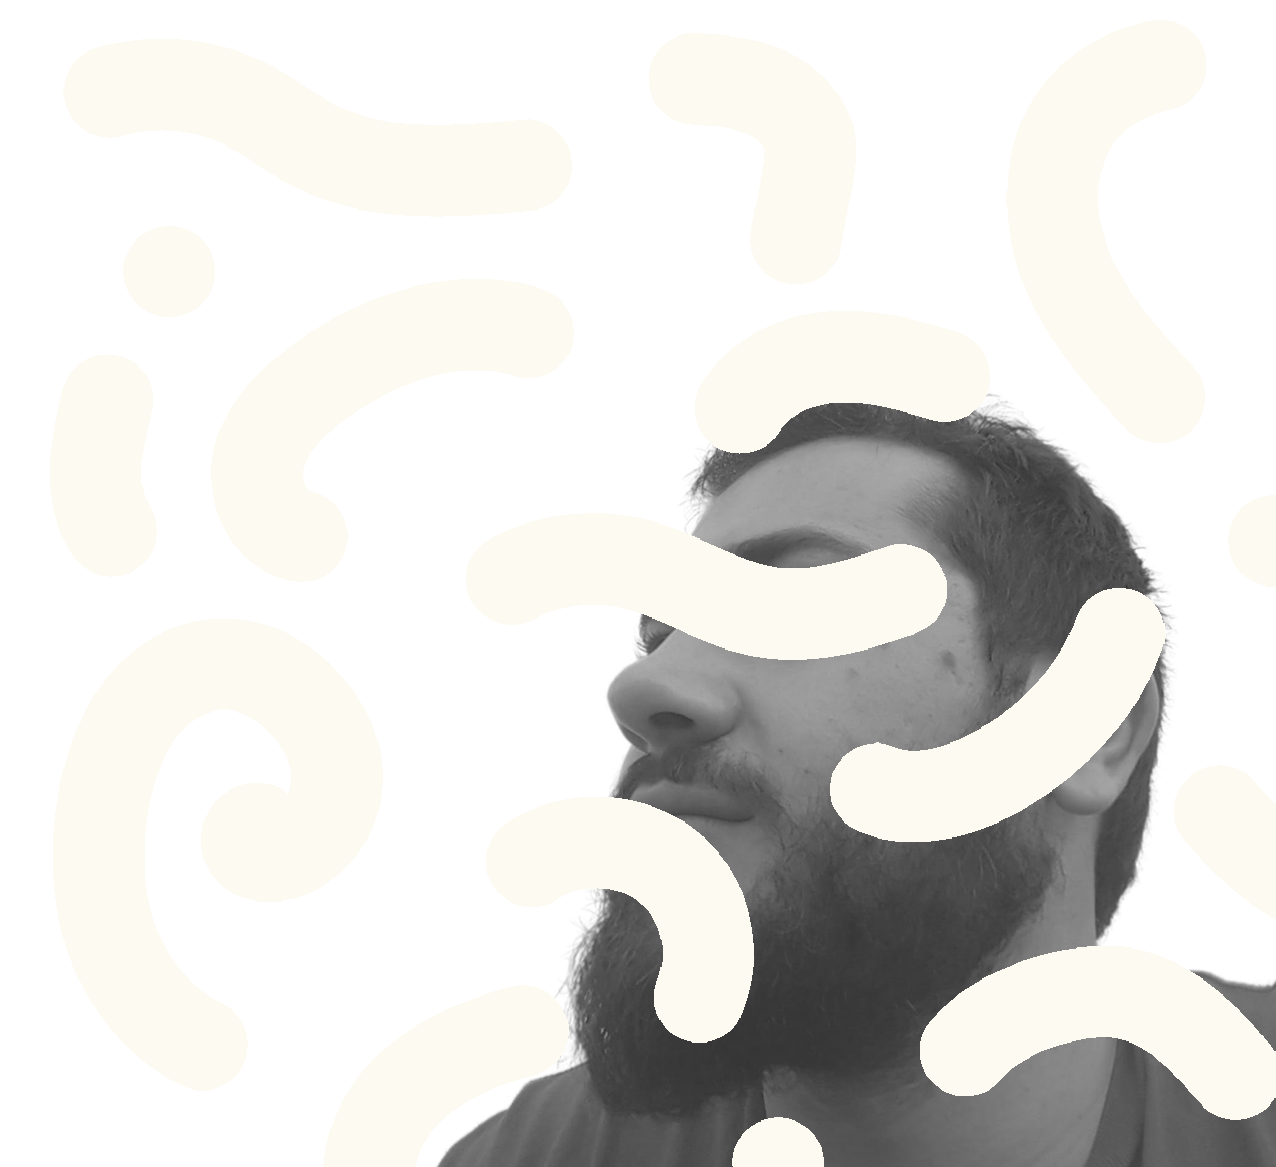
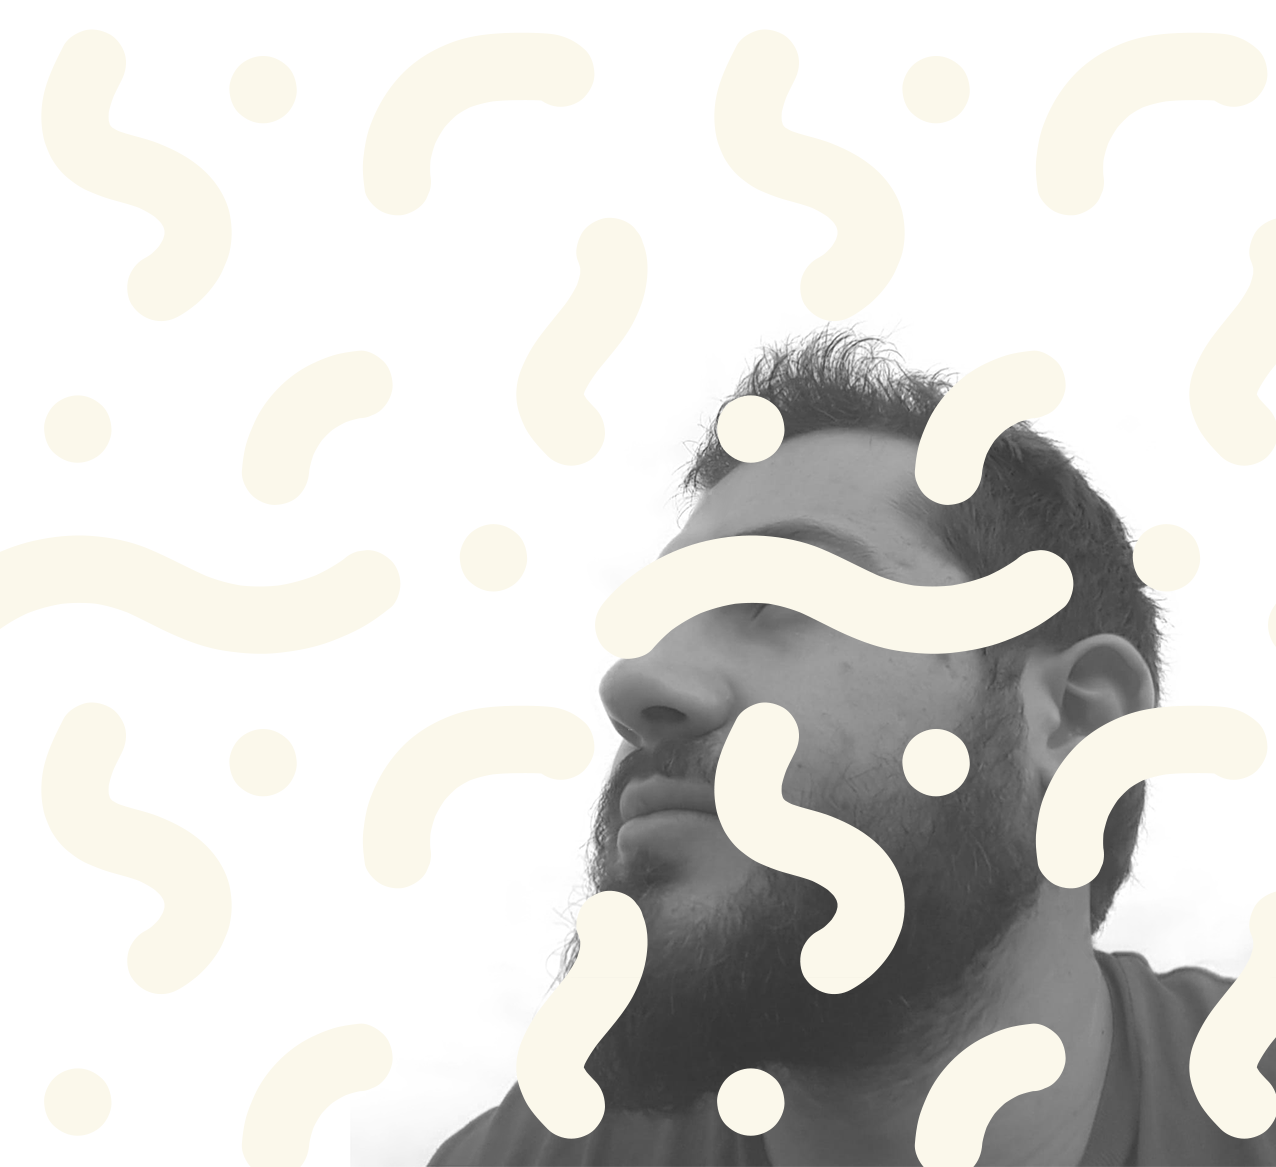
Update img bg landing

diff --git a/src/components/home/TheLandingHome.vue b/src/components/home/TheLandingHome.vue
@@ -331,7 +331,7 @@ html.dark {
     opacity: 0.5;
   }
   #home__landing .col__right {
-    background-image: url('@/assets/img/montellimard-me.png');
+    background-image: url('@/assets/img/montellimard-me-dark.png');
   }
 }
 @media (prefers-color-scheme: dark) {
